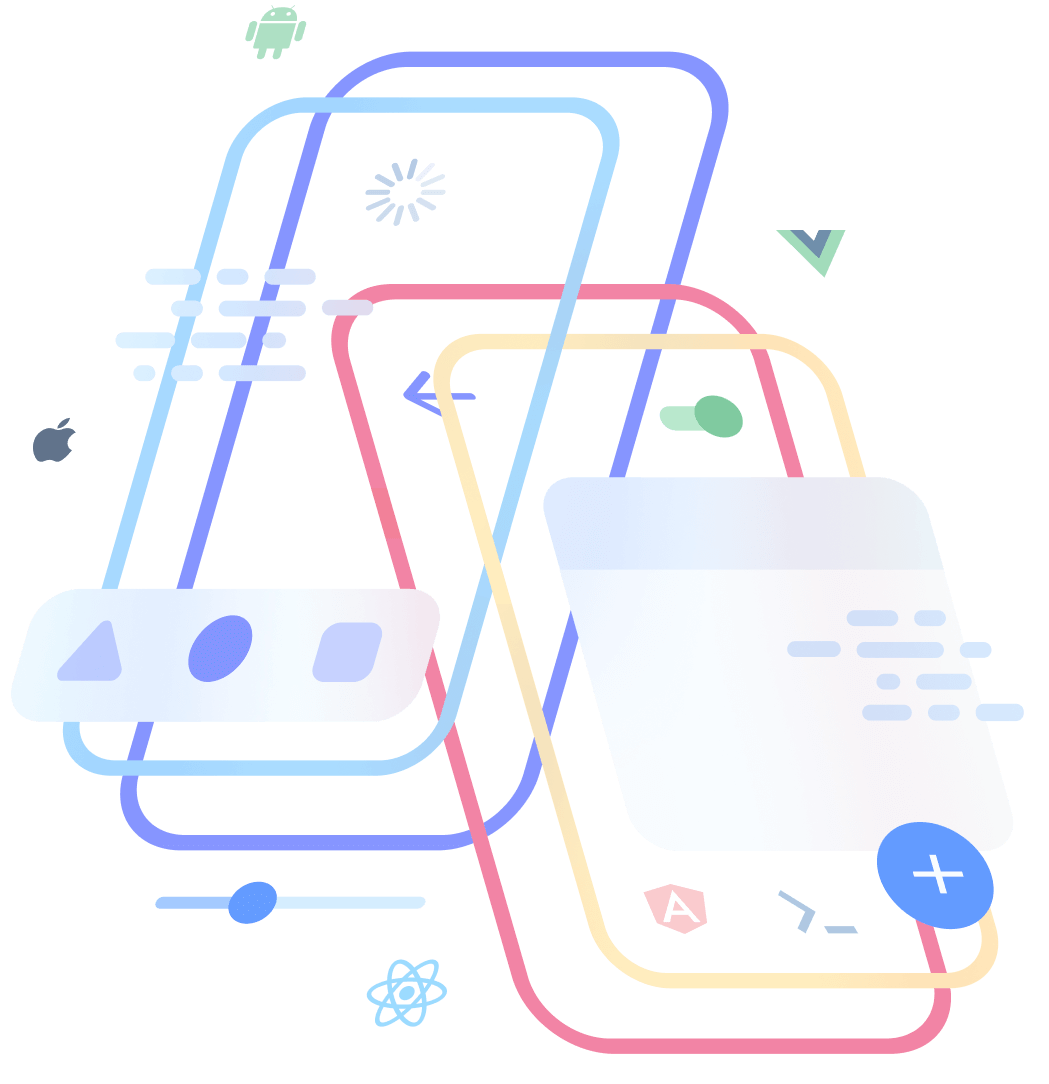
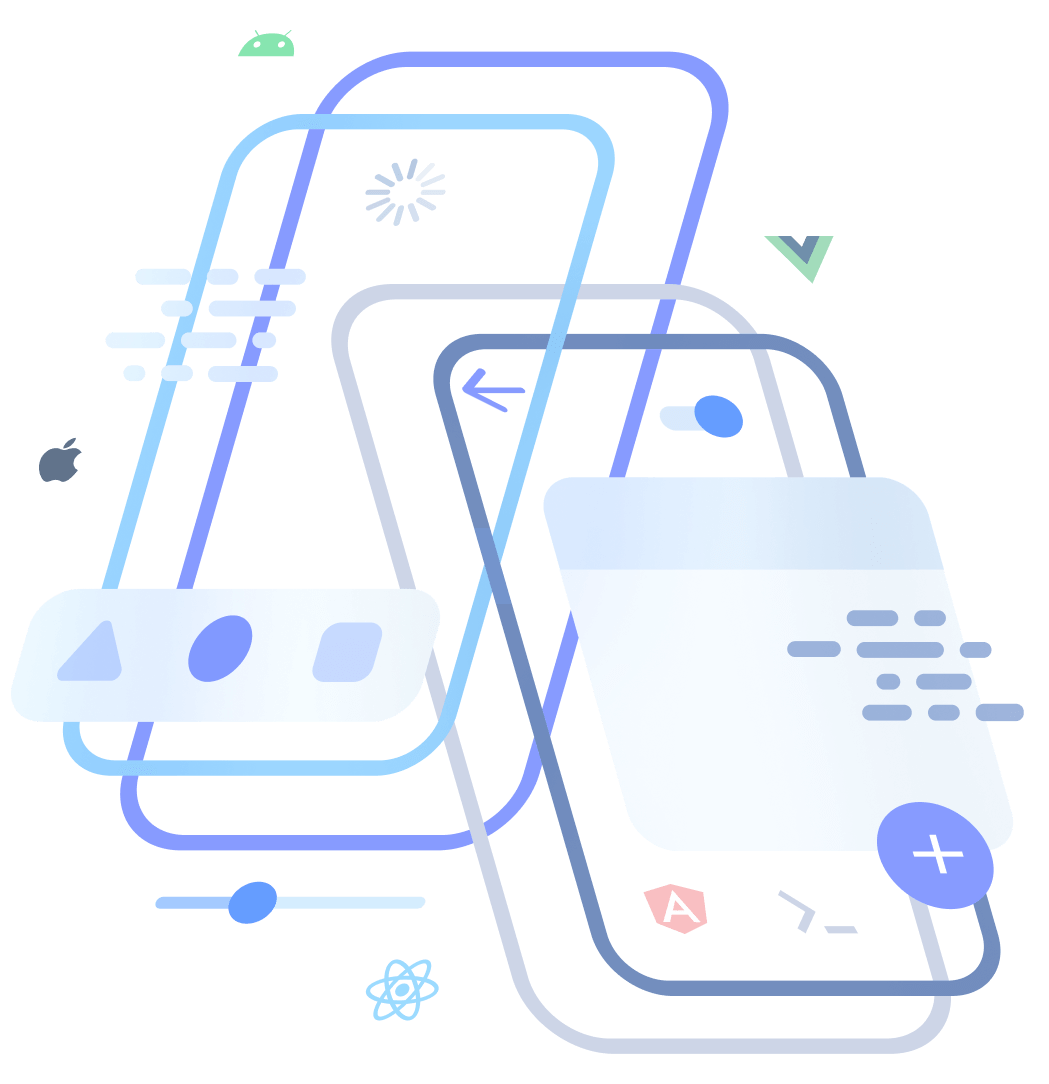
feat(homepage): Top section looking good

diff --git a/assets/scss/components/home_slides/_react.scss b/assets/scss/components/home_slides/_react.scss
@@ -15,24 +15,24 @@
     max-width: 480px;
 
     .darken {
-      color: #001A3A;
+      color: #001a3a;
       font-weight: 500;
     }
 
     .underline {
-      display:inline-block;
+      display: inline-block;
       position: relative;
       &:after {
-        content: '';
+        content: "";
         width: 100%;
         height: 4px;
         left: 0;
-        bottom: -3px;
+        bottom: -5px;
         position: absolute;
       }
     }
 
-    @keyframes slideInOut{
+    @keyframes slideInOut {
       0% {
         z-index: -1;
         opacity: 0;
@@ -65,7 +65,7 @@
       }
     }
 
-    .angular, 
+    .angular,
     .react,
     .vue {
       position: absolute;
@@ -73,105 +73,139 @@
       animation: slideInOut 18s ease infinite;
 
       &::after {
-        position:absolute;
-        bottom: 1px;
+        position: absolute;
+        bottom: -2px;
       }
     }
 
     .react {
-      color: #42CCFF;
+      color: #42ccff;
       animation-delay: -12s;
 
       &::after {
-        background: rgba(89, 210, 255, .3);
+        background: rgba(89, 210, 255, 0.3);
       }
     }
 
     .angular {
-      color: #EF4D4D;
+      color: #ef4d4d;
       animation-delay: -18s;
 
       &::after {
-        background: rgba(239, 77, 77, .3);
+        background: rgba(239, 77, 77, 0.3);
       }
     }
 
     .vue {
-      color: #42B983;
+      color: #42b983;
       animation-delay: -6s;
 
       &::after {
-        background:  rgba(66, 185, 131, .3);
+        background: rgba(66, 185, 131, 0.3);
       }
     }
 
     a {
-     &:hover, &:focus, &:active {
-       text-decoration: none;
-     } 
+      &:hover,
+      &:focus,
+      &:active {
+        text-decoration: none;
+      }
     }
 
     h1 {
       font-size: 64px;
       line-height: 100%;
-      letter-spacing: -.04em;
       color: #020814;
-      font-weight: bold;
       margin-block-end: 24px;
 
       & > span:nth-child(1) {
-        transition-delay: .1s;
+        transition-delay: 0.1s;
       }
       & > span:nth-child(2) {
-        transition-delay: .2s;
+        transition-delay: 0.2s;
       }
       & > span:nth-child(3) {
-        transition-delay: .3s;
+        transition-delay: 0.3s;
       }
 
       .rotate {
-        display:inline-block;
-        position:relative;
+        display: inline-block;
+        position: relative;
         height: 48px;
       }
     }
 
     p {
-      transition-delay: .4s;
+      transition-delay: 0.4s;
       letter-spacing: -0.02em;
-      color: #445B78;      
+      color: #445b78;
       font-size: 20px;
       line-height: 160%;
       margin-block-end: 40px;
     }
 
-    .btn {
-      text-transform: uppercase;
-      letter-spacing: .1em;
-      font-weight: 700;
-      padding: 16px 20px;
-      margin-block-end: 20px;
-      line-height: 100%;
-      display:flex;
-      align-items: center;
-      font-size: 14px;
-      box-shadow: none;
-
-      &:hover, &:active, &:focus {
-        box-shadow: 0 1px 3px rgba(0, 0, 0, 0.08), 0 2px 4px rgba(0, 0, 0, 0.12);
-      }
-    }
-
     .btn__group {
       display: flex;
       flex-wrap: wrap;
-      transition-delay: .5s;
+      transition-delay: 0.5s;
+      margin-block-start: -16px;
+      margin-inline-start: -16px;
+
+      > * {
+        margin-block-start: 16px;
+        margin-inline-start: 16px;
+      }
+      
+      a:first-of-type {
+        letter-spacing: -0.02em;
+        font-weight: 600;
+        padding: 16px 20px;
+        line-height: 112%;
+        display: flex;
+        align-items: center;
+        justify-content: center;
+        font-size: 16px;
+        box-shadow: none;
+
+        color: #fff;
+        background: #3880FF;
+        border-radius: 100px;
+
+        transition: background-color .2s ease-out;
+
+        &:hover,
+        &:focus {
+          color: #fff;
+          background: #5291ff;
+        }
+        &:active {
+          background:  #1f71ff;
+        }
+      }
+      a:last-of-type {
+        font-weight: 600;
+        font-size: 14px;
+        line-height: 100%;
+        display: flex;
+        align-items: center;
+        letter-spacing: -0.01em;
+
+        transition: opacity .2s ease-out;
+
+        &:hover,
+        &:focus,
+        &:active {
+          color: #3880FF;
+          opacity: .7;
+        }
+      }
     }
 
     & > a {
       display: inline-flex;
       align-items: center;
-      transition-delay: .9s;
+      transition-delay: 0.9s;
 
       ion-icon {
         margin-inline-start: 4px;
@@ -180,36 +214,34 @@
 
     ion-icon {
       display: inline-block;
-      transition: .3s transform ease-out;
+      transition: 0.3s transform ease-out;
     }
 
     a:hover ion-icon {
       transform: translateX(3px);
     }
   }
-  
+
   .landing__img {
     flex: 1 1 50%;
-    max-width: 524px; 
+    max-width: 524px;
 
     img {
       width: 100%;
       height: auto;
-      position:relative;
+      position: relative;
       left: 48px;
     }
   }
-
-  
 }
 
 @media (max-width: $screen-xs-max) {
   #slide-ionic-react {
     justify-content: flex-start;
     .landing__img {
-      display:none;
+      display: none;
     }
-  }  
+  }
 }
 
 @media (max-width: 460px) {
@@ -217,9 +249,3 @@
     display: block;
   }
 }
-
-
-
-
-
-

diff --git a/server/pages/index.html b/server/pages/index.html
@@ -18,13 +18,13 @@
       </h1>
       <p class="activateOnScroll">An open source mobile UI toolkit for building high quality, cross-platform native and web app experiences. Move faster with a single code base, running everywhere with JavaScript and the Web.</p>
       <div class="btn__group activateOnScroll">
-        <a href="/start" class="btn dark rounded">Start An App <ion-icon name="arrow-forward-outline"></ion-icon></a>
+        <a href="/start">Start an app <span class="arrow"> -></span></a>
+        <a href="/enterprise/strategy-session">Talk to an expert <span class="arrow"> -></span></a>  
       </div>
-      <a href="/enterprise/strategy-session" class="activateOnScroll">Or talk to an App Architect <ion-icon name="arrow-forward-outline"></ion-icon></a>  
     </div>  
     <div class="landing__img">
       <img  src="/img/homepage/hero-ionic-react@2x.png"
-            srcset="/img/homepage/hero-ionic-react@1x.png 1x,
+            srcset="/img/homepage/hero-ionic-react.png 1x,
                     /img/homepage/hero-ionic-react@2x.png 2x"
             width="525" height="542">   
     </div>

diff --git a/assets/scss/pages/home-2.scss b/assets/scss/pages/home-2.scss
@@ -128,10 +128,8 @@
     }
 
     h2 {
-      font-weight: 600;
       font-size: 48px;
       line-height: 110%;
-      letter-spacing: -0.05em;
       color: #020814;
 
       + p {

diff --git a/assets/scss/_general.scss b/assets/scss/_general.scss
@@ -38,6 +38,11 @@ main {
   background-color: #F9FAFB;
 }
 
+.arrow {
+  letter-spacing: 0;
+  white-space: pre;
+}
+
 .improve-docs {
   position: absolute;
   right: 3.5em;

diff --git a/assets/scss/pages/enterprise/index.scss b/assets/scss/pages/enterprise/index.scss
@@ -35,7 +35,6 @@ h2 {
   line-height: 112%;
   letter-spacing: -0.04em;
   color: $colorTitle;
-  font-weight: 600;
 }
 h3 {
   font-family: $font-family-inter;
